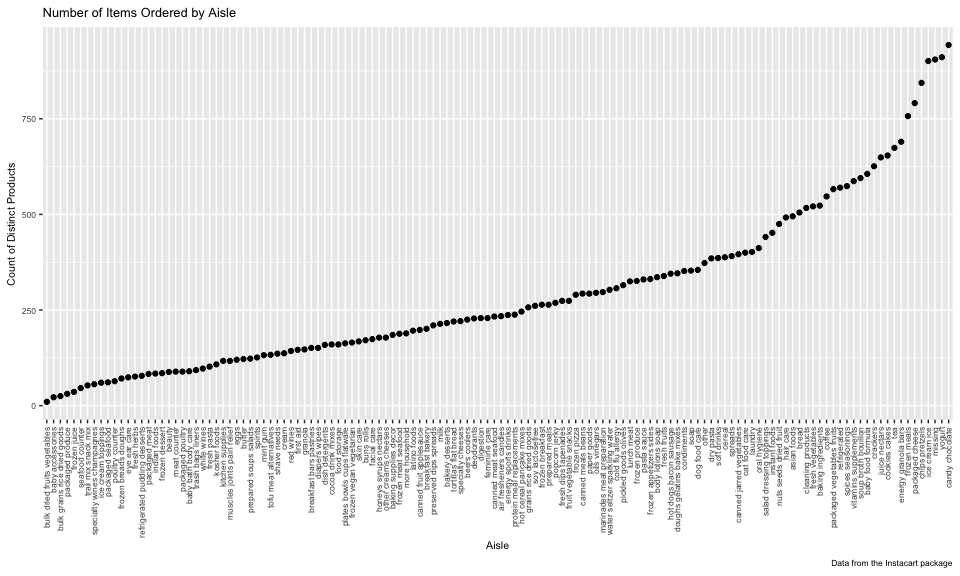
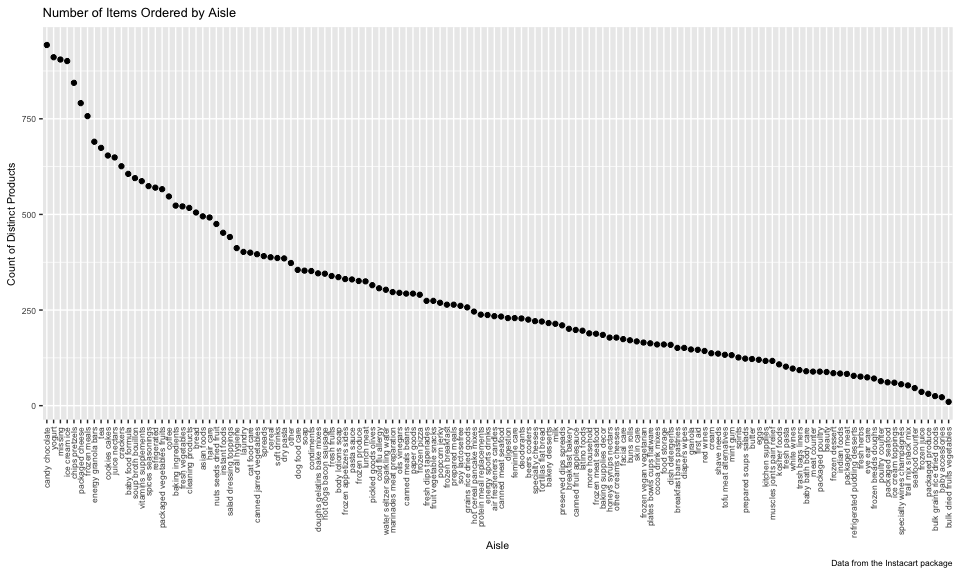
work on problem 3 - added description of july vs january plot; minor text edits throughout problem;

diff --git a/p8105_hw3_dm3175.md b/p8105_hw3_dm3175.md
@@ -54,7 +54,7 @@ brfss_data %>%
 
 -   **Make a “spaghetti plot” that shows the number of locations in each state from 2002 to 2010.**
 
-The following spaghetti plot displays the number of locations in each state from 2002 to 2010. The states are differentiated by colors as presented in the legend. The graph illustrates that the number of sampling locations in each state fluctuated from 2002 to 2010 and does not remain constant. It also demonstrates that the majority of states had &lt;10 sampling locations, with only 4 states sampling &lt;15 locations. Florida had the greatest number of sampling locations with a peak of 44 locations in 2007.
+The following spaghetti plot displays the number of locations in each state from 2002 to 2010. The states are differentiated by colors as presented in the legend. The graph illustrates that the number of sampling locations in each state fluctuated from 2002 to 2010 and does not remain constant. It also demonstrates that the majority of states had &lt;10 sampling locations, with only 4 states sampling &gt;15 locations. Florida had the greatest number of sampling locations with a peak of 44 locations in 2007.
 
 ``` r
 brfss_data %>%
@@ -192,14 +192,14 @@ instacart_data %>%
 
 -   **Make a plot that shows the number of items ordered in each aisle. Order aisles sensibly, and organize your plot so others can read it**
 
-The following plot displays the number of items ordered in each aisle, arranged from aisles containing fewest number of items ordered to greatest number of items ordered.
+The following plot displays the number of items ordered in each aisle, arranged from aisles containing fewest number of items ordered to greatest number of items ordered. The plot illustrates that the "Candy Chocolate" aisle has the most distinct products ordered, and "Bulk Dried Fruits" has the least.
 
 ``` r
 instacart_data %>%
   group_by(aisle) %>% 
   summarize(distinct_product = n_distinct(product_id)) %>%
   arrange(desc(distinct_product)) %>%
-  mutate(aisle = forcats::fct_reorder(aisle, distinct_product)) %>% 
+  mutate(aisle = forcats::fct_reorder(aisle, desc(distinct_product))) %>% 
   ggplot(aes(x = aisle, y = distinct_product), color = aisle) +
   geom_point() +
   labs(
@@ -348,15 +348,16 @@ clean_NOAA_data %>%
 
 -   **Make a two-panel plot showing the average max temperature in January and in July in each station across years. Is there any observable / interpretable structure? Any outliers?**
 
-The following plot shows the average max temperature in January and July in each station from 1981 to 2010. The average max temperature was taken over all daily Tmax measurements for the months of July and January per station.
+The following plot shows the average max temperature in January and July in each station from 1981 to 2010. The average max temperature was taken over all daily Tmax measurements for the months of July and January per station. A spaghetti plot was chosen to display the fluctuations in each station's average maximum temperature from year-to-year, and more clearly show outliers where they appear.
 
 ``` r
 clean_NOAA_data %>%
   filter(month == "January" | month == "July") %>%
   group_by(id, year, month) %>% 
-  summarize(mean_tmax = mean(tmax_celsius, na.rm = TRUE)) %>%
-  ggplot(aes(x = year, y = mean_tmax, color = month)) +
-  geom_point(alpha = .5) +
+  summarize(mean_tmax = mean(tmax_celsius, na.rm = TRUE)) %>% 
+  ggplot(aes(x = year, y = mean_tmax, group = id, color = id)) +
+  geom_point() +
+  geom_line() +
   facet_grid(. ~ month) +
   theme(axis.text.x = element_text(angle=60, hjust=1)) +
   labs(
@@ -364,26 +365,29 @@ clean_NOAA_data %>%
     x = "Year",
     y = "Mean Tmax",
     caption = "Data from the NY_NOAA package"
-  )
+  ) +
+  theme(axis.text.x = element_text(angle = 90)) + theme(legend.position = "none")
 ```
 
     ## Warning: Removed 5970 rows containing missing values (geom_point).
 
+    ## Warning: Removed 5640 rows containing missing values (geom_path).
+
 <img src="p8105_hw3_dm3175_files/figure-markdown_github/max temp in Jan and July-1.png" width="90%" />
 
-As expected, the plots illustrate that the average maximum temperature is consistently lower in Janurary than July. The average temperatures have fluctuated yearly from 1981-2010, although not always significantly.
+As expected, the plots illustrate that the average maximum temperature is consistently lower in Janurary than July. The average temperatures have fluctuated yearly from 1981-2010, although not always significantly. The most striking outliers in January maximum temperatures occurred in\_\_\_\_\_
 
 -   **Make a two-panel plot showing (i) tmax vs tmin for the full dataset (note that a scatterplot may not be the best option); and (ii) make a plot showing the distribution of snowfall values greater than 0 and less than 100 separately by year.**
 
-The following two-panel plot displays: 1) the Tmax vs. Tmin for the full dataset using a hexagonal scatterplot (`geom_hex()` function). This type of plot was chosen to avoid overplotting and better represent the values most represented in the dataset using a color gradient by count; and 2) a plot showing the distribution of snowfall values greater than 0 and less than 100 separately by year.
+The following two-panel plot displays: 1) the Tmax vs. Tmin for the full dataset using a hexagonal scatterplot (`geom_hex()` function). This type of plot was chosen to avoid overplotting (due to the large amount of data in this dataset) and better represent the values most represented in the dataset using a color gradient by count; and 2) a plot showing the distribution of snowfall values greater than 0 and less than 100 separately by year.
 
 ``` r
 temp_hex_p = clean_NOAA_data %>%
   ggplot(aes(x = tmin_celsius, y = tmax_celsius)) + 
   geom_hex() + 
-  labs(title = "Tmax vs. Tmin (in Celsius) for all NY weather stations, 1981-2010",
-       x = "Tmin (Celsius)",
-       y = "Tmax (Celsius)",
+  labs(title = "Max vs. Min Temperature (in Celsius) for all NY weather stations, 1981-2010",
+       x = "Min Temperature (Celsius)",
+       y = "Max Temperature (Celsius)",
       caption = "Data from the NY_NOAA package")
 
 snowfall_density_p = clean_NOAA_data %>% 
@@ -404,3 +408,5 @@ temp_hex_p + snowfall_density_p
     ## Picking joint bandwidth of 3.76
 
 <img src="p8105_hw3_dm3175_files/figure-markdown_github/unnamed-chunk-6-1.png" width="90%" />
+
+The plot of maximum vs. minimum temperature illustrates
